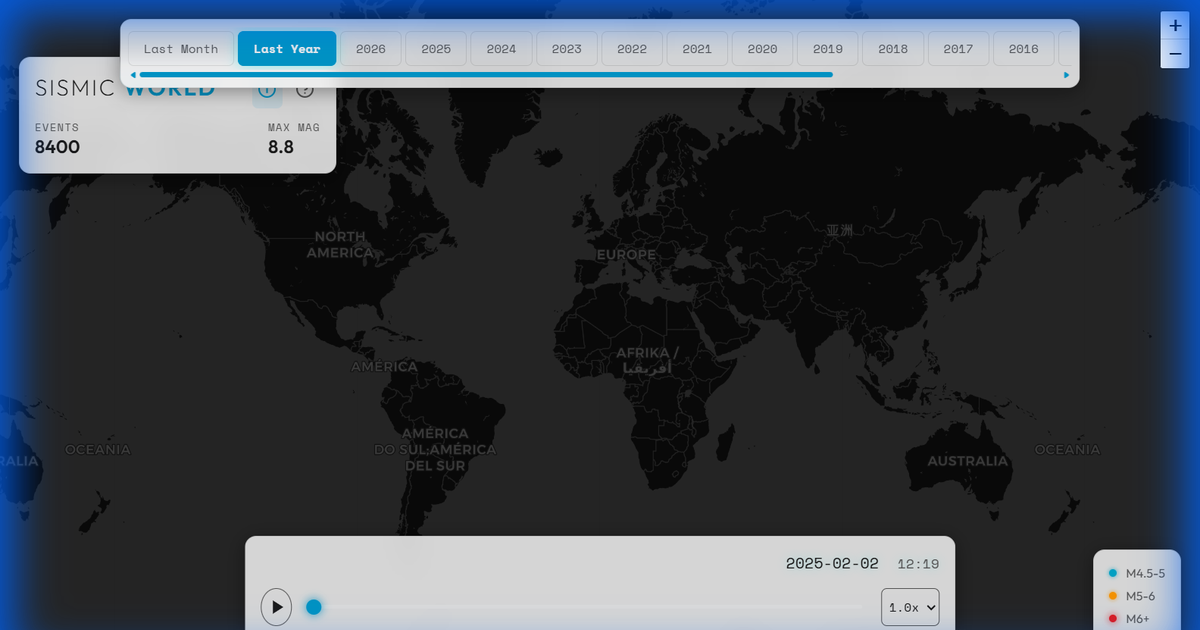
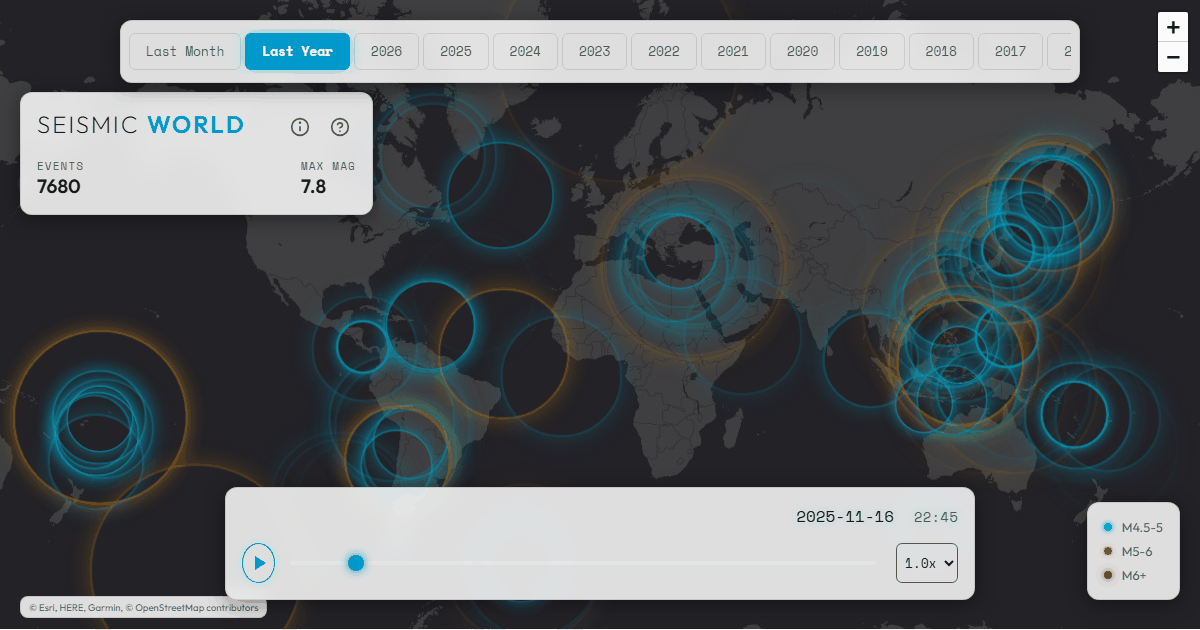
Fix year tabs overlapping header, retake OGP image (old one showed SISMIC typo), add OGP size/alt and control aria-labels

diff --git a/index.html b/index.html
@@ -8,7 +8,7 @@
 
     <!-- SEO Meta Tags -->
     <meta name="description"
-        content="世界中で発生した地震（M4.5以上）を地図上にアニメーションで可視化。2011年以降の年別アーカイブや過去1年・1か月のデータをマグニチュード別に色分けして表示。USGS公式データを使用。Visualize global earthquakes in real-time with USGS data.">
+        content="世界中で発生した地震（M4.5以上）を地図上にアニメーションで可視化。2011年以降の年別アーカイブや過去1年・1か月のデータをマグニチュード別に色分けして表示。USGS公式データを使用。Animated map of global earthquakes using daily-updated USGS data.">
     <meta name="keywords"
         content="地震, 世界, 地震マップ, 地震可視化, 世界の地震, 地震データ, マグニチュード, USGS, earthquake, global, seismic map, visualization, world">
     <meta name="author" content="SEISMIC WORLD">
@@ -22,6 +22,9 @@
     <meta property="og:description"
         content="世界中で発生した地震を地図上にアニメーションで可視化。マグニチュード別に色分けして表示します。">
     <meta property="og:image" content="https://prime-plasma-world-1yze.vercel.app/images/og-image.png">
+    <meta property="og:image:width" content="1200">
+    <meta property="og:image:height" content="630">
+    <meta property="og:image:alt" content="SEISMIC WORLD - 世界の地震可視化マップ">
     <meta property="og:locale" content="ja_JP">
     <meta property="og:locale:alternate" content="en_US">
     <meta property="og:site_name" content="SEISMIC WORLD">
@@ -51,7 +54,7 @@
         "@type": "WebApplication",
         "name": "SEISMIC WORLD",
         "alternateName": "世界の地震可視化マップ",
-        "description": "世界中で発生した地震をリアルタイムで可視化するインタラクティブな地図アプリケーション",
+        "description": "世界中で発生した地震を地図上でアニメーション表示するインタラクティブな地図アプリケーション",
         "url": "https://prime-plasma-world-1yze.vercel.app/",
         "inLanguage": "ja",
         "applicationCategory": "UtilitiesApplication",
@@ -155,11 +158,11 @@
 
                 <div class="info-section">
                     <h4>Data Source</h4>
-                    <p><a href="https://earthquake.usgs.gov/" target="_blank">USGS Earthquake Hazards Program</a><br>
+                    <p><a href="https://earthquake.usgs.gov/" target="_blank" rel="noopener">USGS Earthquake Hazards Program</a><br>
                         Coverage: Worldwide<br>
                         Minimum Magnitude: M4.5+<br>
                         Update: Daily</p>
-                    <p>Map Tiles: <a href="https://www.esri.com/" target="_blank">Esri</a></p>
+                    <p>Map Tiles: <a href="https://www.esri.com/" target="_blank" rel="noopener">Esri</a></p>
                 </div>
 
                 <div class="info-section">
@@ -192,14 +195,14 @@
             </div>
 
             <div class="timeline-container">
-                <button id="play-pause-btn" class="control-btn play">
+                <button id="play-pause-btn" class="control-btn play" aria-label="再生 / 一時停止" title="再生 / 一時停止">
                     <svg viewBox="0 0 24 24" width="24" height="24">
                         <path id="play-icon" d="M8 5v14l11-7z" fill="currentColor" />
                         <path id="pause-icon" d="M6 19h4V5H6v14zm8-14v14h4V5h-4z" fill="currentColor"
                             style="display:none" />
                     </svg>
                 </button>
-                <input type="range" id="timeline-slider" min="0" max="100" value="0" step="0.1">
+                <input type="range" id="timeline-slider" aria-label="タイムライン" min="0" max="100" value="0" step="0.1">
                 <select id="speed-select" class="speed-select" title="Playback Speed">
                     <option value="0.1">0.1x</option>
                     <option value="0.5">0.5x</option>

diff --git a/css/style.css b/css/style.css
@@ -56,7 +56,7 @@ body {
 
 /* Header */
 .header-overlay {
-    top: 60px;
+    top: 92px;  /* clear the year-tab bar above */
     left: 20px;
     min-width: 250px;
 }
@@ -542,7 +542,7 @@ input[type=range]::-webkit-slider-thumb {
 
     /* Header Overlay */
     .header-overlay {
-        top: 70px;
+        top: 86px;
         left: 15px;
         min-width: 280px;
         padding: 14px 16px;
@@ -646,7 +646,7 @@ input[type=range]::-webkit-slider-thumb {
 
     /* Header Overlay */
     .header-overlay {
-        top: 55px;
+        top: 70px;
         left: 8px;
         right: auto;
         min-width: auto;
@@ -760,7 +760,7 @@ input[type=range]::-webkit-slider-thumb {
     }
 
     .header-overlay {
-        top: 48px;
+        top: 58px;
         left: 4px;
         padding: 8px 10px;
     }
